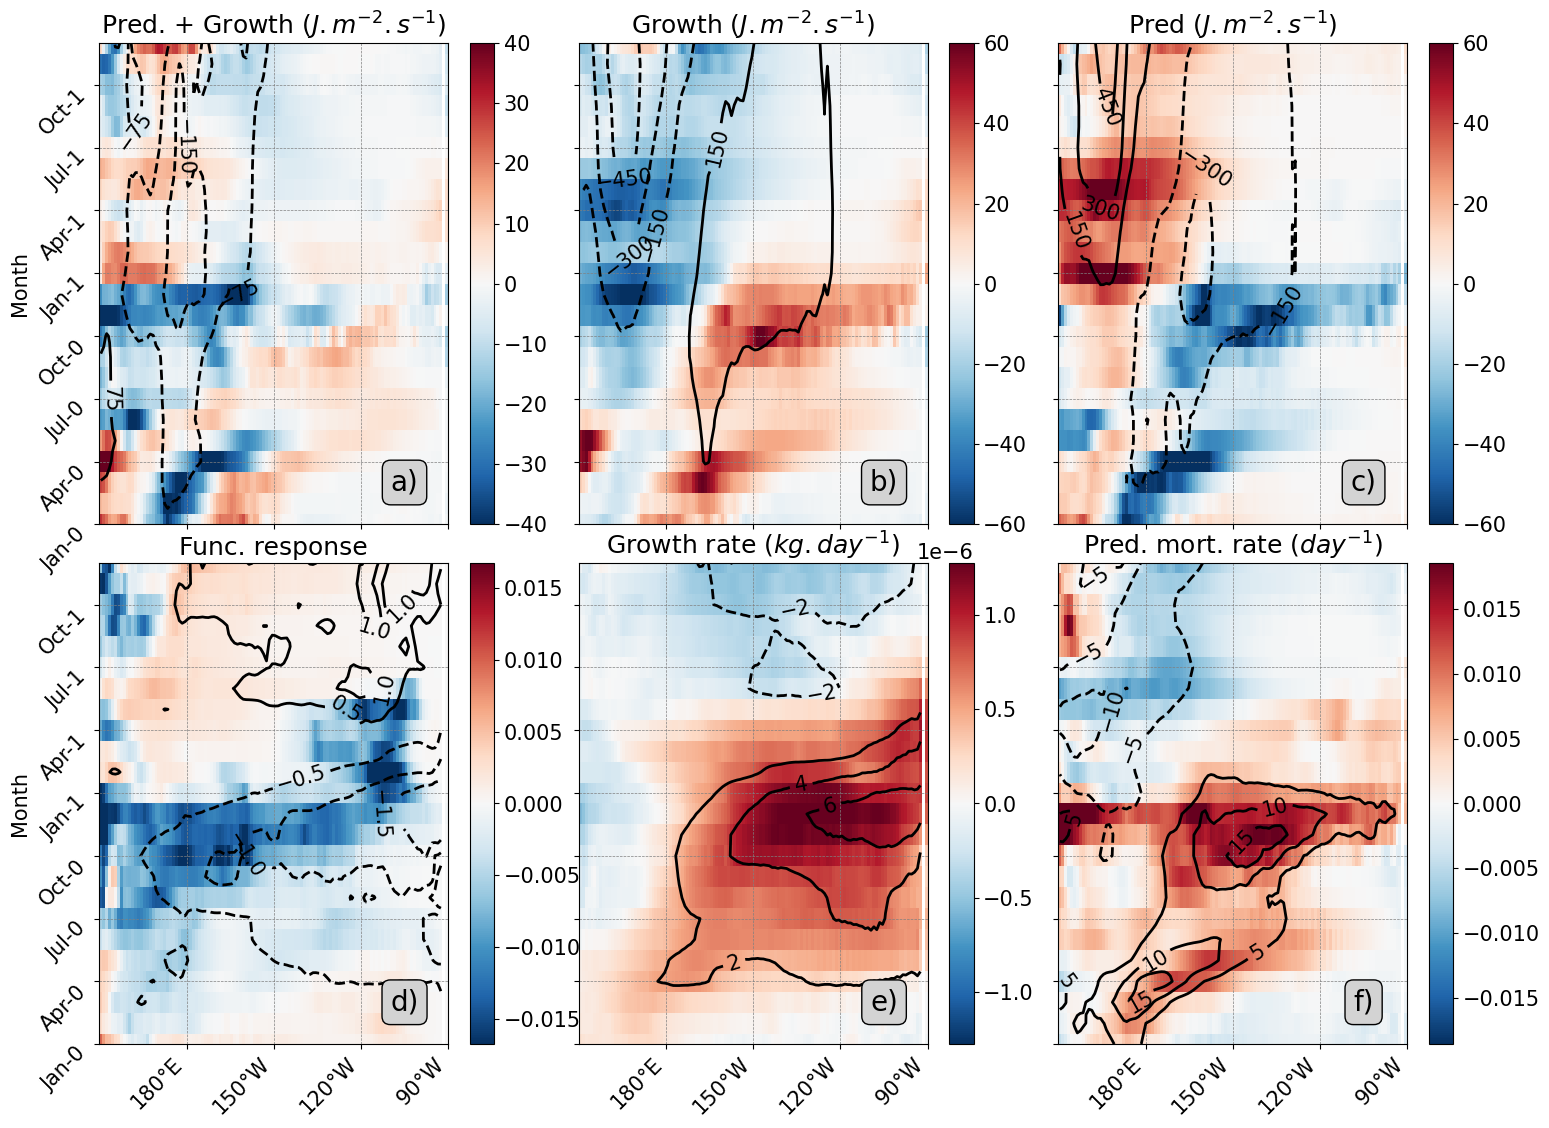
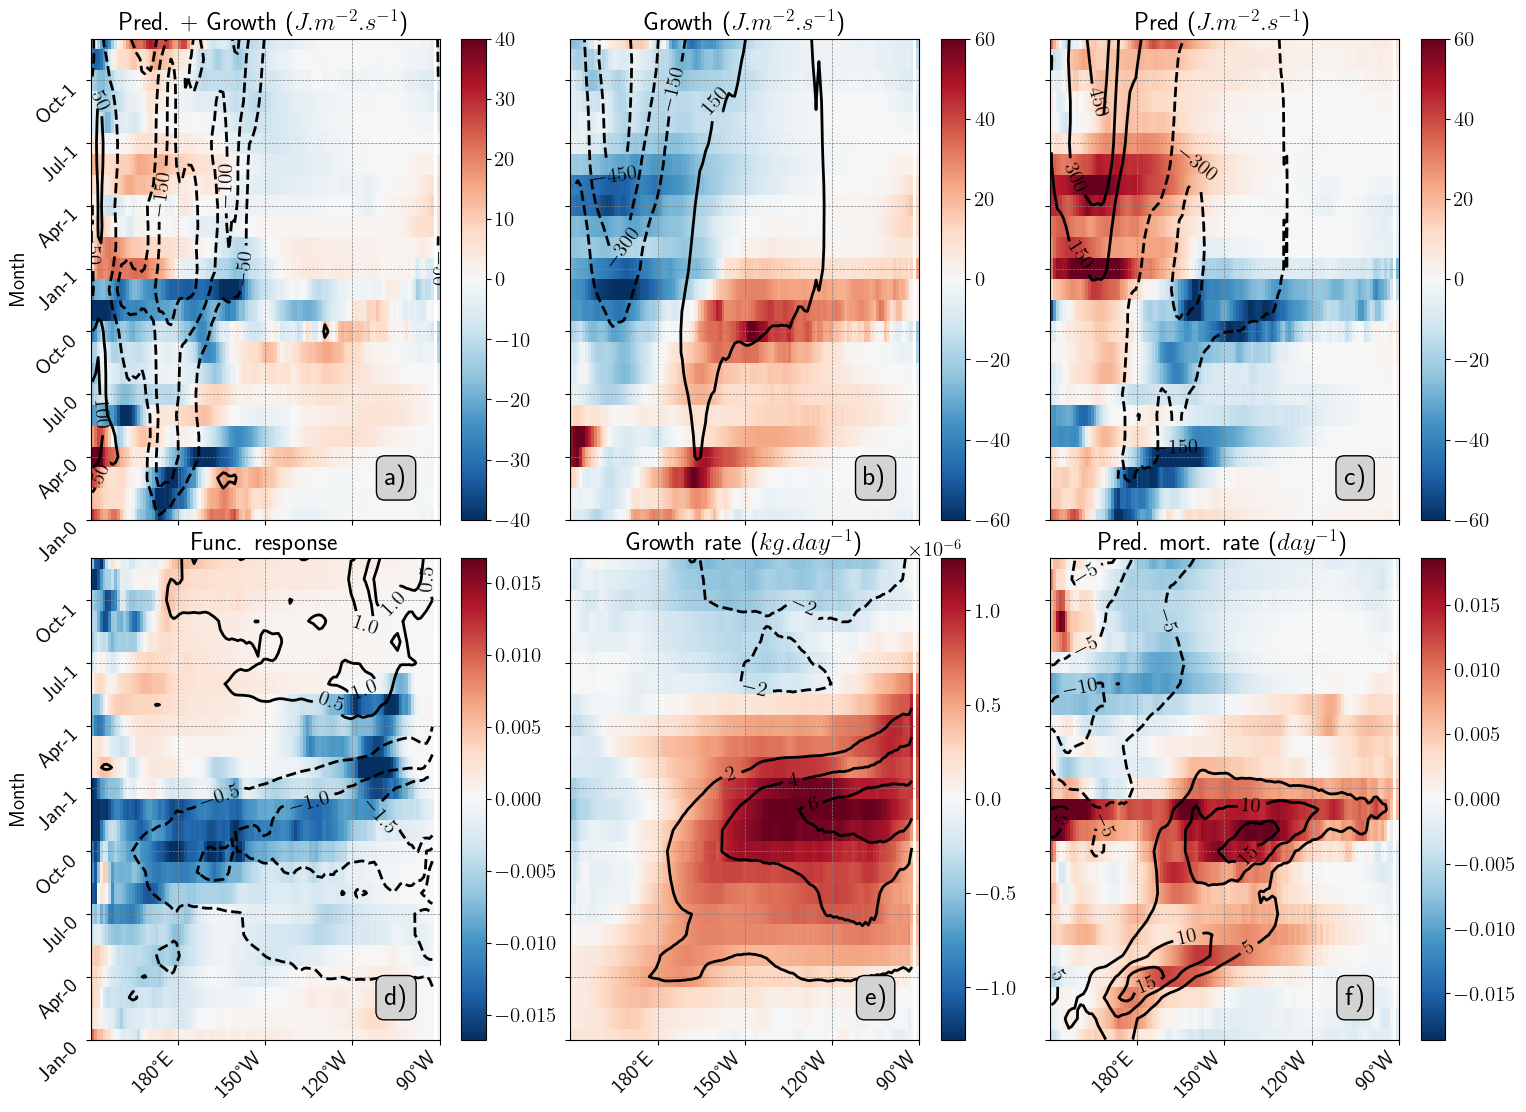
Update figures

Changed region(s): [[0.0, 0.0, 1.0, 1.0]]

diff --git a/scripts/new-97/fig7.py b/scripts/new-97/fig7.py
@@ -6,11 +6,11 @@
 #       extension: .py
 #       format_name: light
 #       format_version: '1.5'
-#       jupytext_version: 1.13.7
+#       jupytext_version: 1.10.3
 #   kernelspec:
-#     display_name: Python [conda env:nbarrier2]
+#     display_name: Python 3 (ipykernel)
 #     language: python
-#     name: conda-env-nbarrier2-py
+#     name: python3
 # ---
 
 import xarray as xr
@@ -152,6 +152,14 @@ months = ['Jan', 'Feb', 'Mar', 'Apr', 'May', 'Jun', 'Jul', 'Aug', 'Sep', 'Oct', 
 tlabels = ['%s-%d' %(m, y) for y in [0, 1] for m in months]
 tlabels
 
+
+def make_levels(ccc, step):
+    ccc = abs(ccc)
+    levels = np.arange(-ccc, ccc + step, step)
+    levels = levels[levels != 0]
+    return levels
+
+
 # +
 fig = plt.figure(figsize=(13, 14), facecolor='white')
 plt.rcParams['font.size'] = 15
@@ -184,15 +192,16 @@ clist = [150, 15, 6]
 cont = True
 iii = 0
 
-levels0 = np.arange(-150, 150 + 75, 75)
-levels1 = np.arange(-15, 15 + 5, 5)
-levels2 = np.arange(-6, 6 + 2, 2)
+levels0 = make_levels(125, 25)
+levels0 = make_levels(-150, 50)
+levels1 = make_levels(-15, 5)
+levels2 = make_levels(-5, 2)
 
 levels = [levels0, levels1, levels2]
 
 
 for l in [3, 20, 90]:
-    ccc = clist[iii]
+    ccc = levels[iii].max()
     cpt += 1    
     ax = axgr[cpt]
     toplot = (wstep * (zadv + madv + zdiff + mdiff + pred + growth)).cumsum(dim='time').sel(l=l, method='nearest')

diff --git a/scripts/new-97/fig8.py b/scripts/new-97/fig8.py
@@ -6,11 +6,11 @@
 #       extension: .py
 #       format_name: light
 #       format_version: '1.5'
-#       jupytext_version: 1.13.7
+#       jupytext_version: 1.10.3
 #   kernelspec:
-#     display_name: Python [conda env:nbarrier2]
+#     display_name: Python 3 (ipykernel)
 #     language: python
-#     name: conda-env-nbarrier2-py
+#     name: python3
 # ---
 
 import xarray as xr
@@ -157,14 +157,10 @@ zoo2 = read_pisces_variable('ZOO2', 50, anom)
 zoo = read_pisces_variable('ZOO', 50, anom)
 goc = read_pisces_variable('GOC', 50, anom)
 plk = phy2 + zoo2 + zoo + goc
-
-
 def create_levels(lmax, step):
     levels = np.arange(-lmax, lmax + step, step)
     levels = levels[levels != 0]
     return levels
-
-
 # +
 fig = plt.figure(figsize=(18, 13), facecolor='white')
 plt.rcParams['font.size'] = 15
@@ -215,7 +211,7 @@ ax.text(lon1, time1, letters[cpt - 1], **textprop)
 ax.set_title('Pred. + Growth ($J.m^{-2}.s^{-1}$)')
 
 lmax = 150
-step = 75
+step = 50
 levels = np.arange(-lmax, lmax + step, step)
 print(levels)
 levels = levels[levels != 0]

diff --git a/scripts/new-97/plot_all_hovmoller_phys_oope.py b/scripts/new-97/plot_all_hovmoller_phys_oope.py
@@ -6,7 +6,7 @@
 #       extension: .py
 #       format_name: light
 #       format_version: '1.5'
-#       jupytext_version: 1.13.7
+#       jupytext_version: 1.10.3
 #   kernelspec:
 #     display_name: Python 3 (ipykernel)
 #     language: python
@@ -102,7 +102,6 @@ def make_levels(ccc, step):
     return levels
 
 
-
 # +
 fig = plt.figure(facecolor='white', figsize=(14, 10))
 grid = ImageGrid(fig, 111,  # similar to subplot(111)
@@ -143,7 +142,7 @@ ccc['uo'] = make_levels(1, 0.25)
 ccc['PLK'] = make_levels(1.5, 0.5)
 
 ccc_oope = []
-ccc_oope.append(make_levels(100, 25))
+ccc_oope.append(make_levels(150, 50))
 ccc_oope.append(make_levels(15, 5))
 ccc_oope.append(make_levels(5, 2))
 
